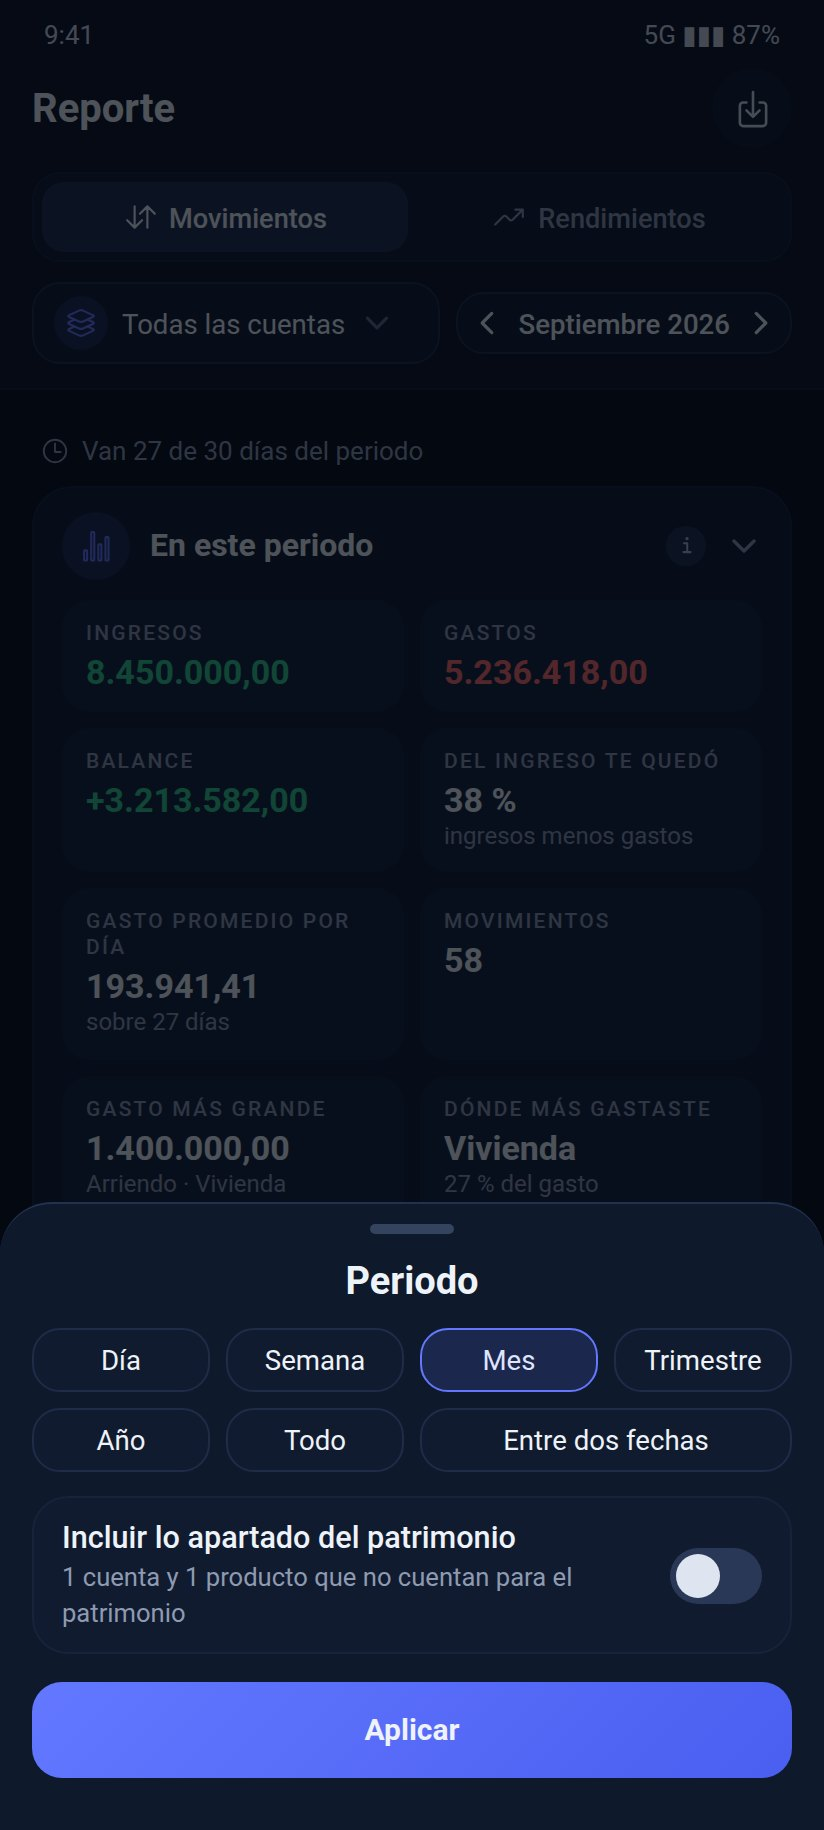
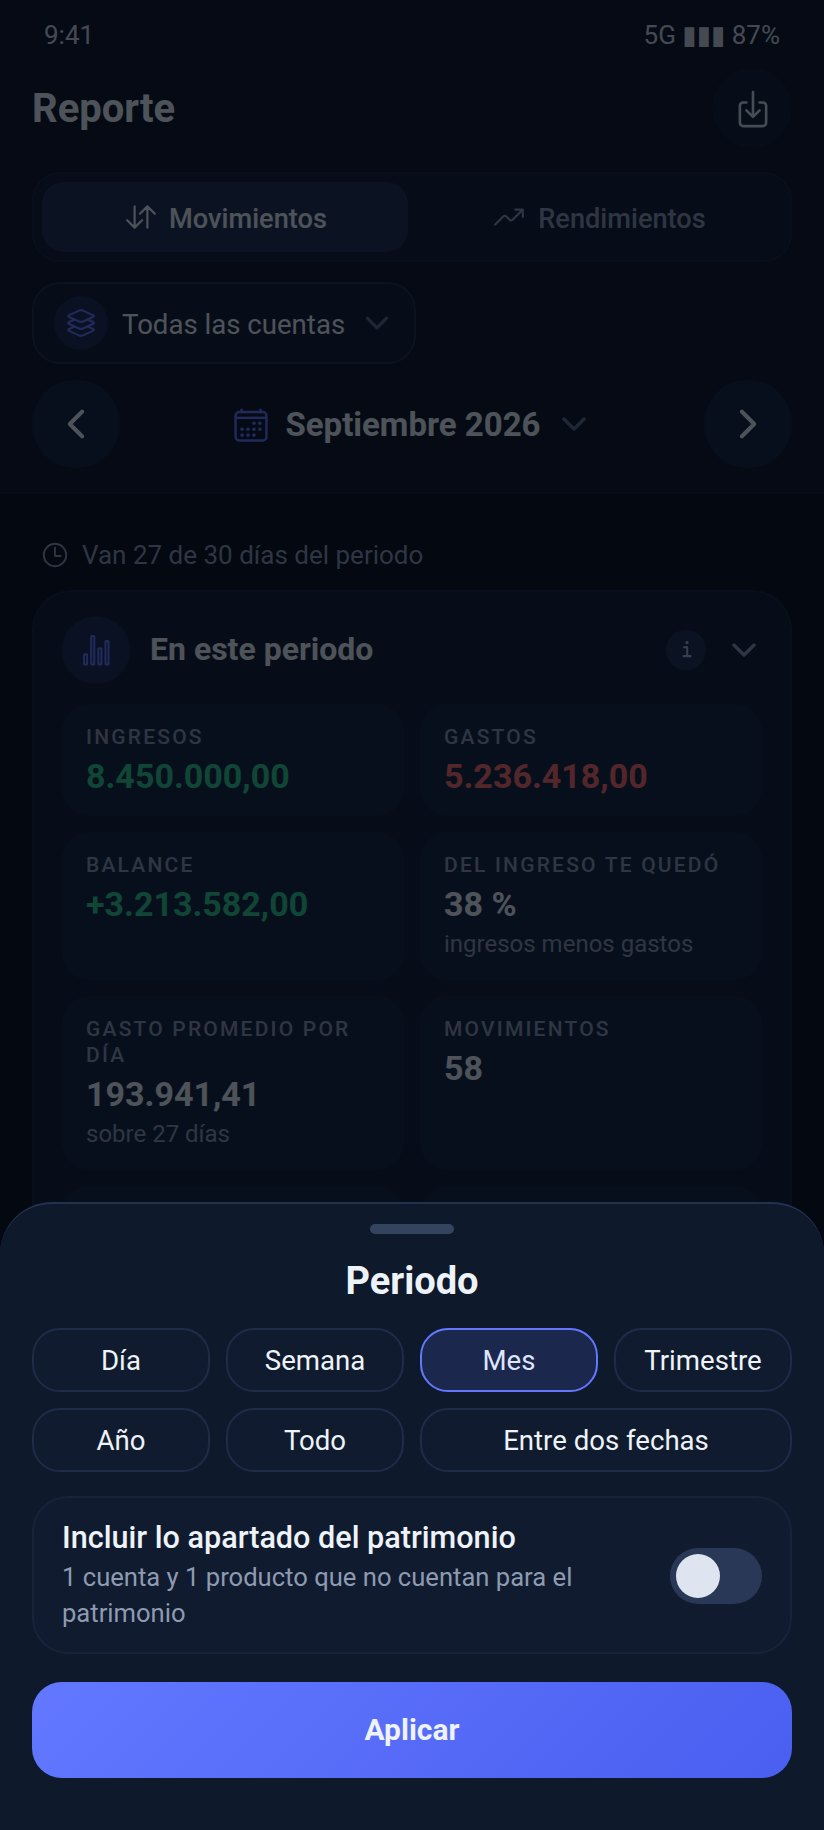
Redraw group 5 of the redesign after Jose's review
Explanations and section titles shown whole, the yields ranking in
order, the period on its own row with large arrows, and two ideas from
Lukas: income beside spending month by month, and the balance ahead.

Claude-Session: https://claude.ai/code/session_01QyUqFix1SMdsKVBtd1Wz88

diff --git a/CLAUDE.md b/CLAUDE.md
@@ -2053,7 +2053,7 @@ then does the next start. The groups and where each stands:
 | 2 | Cuentas, creating and editing an account, its icon and colour, currencies, net worth | `docs/mockups/2*` (v4) | **Approved** by Jose, 2026-09-28, with its three changes of access |
 | 3 | Categories and their editor | `docs/mockups/3*` (v4) | **Approved** by Jose, 2026-09-28 |
 | 4 | Products and yields: how they are reached, an account's products, days, movements, a product with its rates, a CDT | `docs/mockups/4*` (v5) | **Approved** by Jose, 2026-09-28 |
-| 5 | Report (money and yields) | `docs/mockups/5*` (v4) | Sent 2026-09-28, waiting |
+| 5 | Report (money and yields) | `docs/mockups/5*` (v5) | v4 reviewed by Jose; v5 sent 2026-09-28, waiting |
 | 6 | Por revisar, reading a statement | `d03`-`d05` (v3 draft) | To redo |
 | 7 | Avisos del banco | `d06`-`d07` (v3 draft) | To redo |
 | 8 | Más, Importar y exportar, Google (sign in, change account, sign out) | `d08`-`d13` (v3 draft) | To redo |
@@ -2278,6 +2278,33 @@ changes of ACCESS for Jose to accept or refuse:
 - "Van 27 de 30 días del periodo" stays on top when the period is not
   over. The drawing of each kind of block (figures, ranked with bars,
   comparison, trend with a tapped bar and its average, note) is today's.
+
+**And from his review of group 5 v4 (2026-09-28), v5 sent:**
+
+- **An explanation that belongs to a figure is shown whole**, wrapping
+  onto a second line, never cut with "…": the line under each figure
+  ("al año, por encima de la inflación"), the average balances of
+  "Contra el periodo anterior" (a line of their own under the change).
+  The marquee is for names; an explanation is read, not watched.
+- **A section's title is never cut**: closed, it is the title (wrapping
+  if it must) and, under it, its key figure in grey or its colour - the
+  one row shape of the Lukas study.
+- **"Qué cuenta rindió más" is ordered by what each earned, in pesos**
+  (a dollar account by its peso value), and says so.
+- **The period has its own row, with round 44px arrows at its edges**
+  and the month in the middle, which opens the period sheet; the account
+  is the row above. Taken from Lukas: the arrows were small and next to
+  the month, easy to miss.
+- **Two ideas from Lukas, drawn inside the report's own kinds of block
+  (proposed, not decided):** "Mes a mes" carries a selector, Gastos |
+  Ingresos y gastos, the second being income and spending side by side
+  per month (a trend with two series, as the spreadsheet already
+  draws); and a new section, **"Tu saldo a futuro"**, the balance of the
+  last months and, dashed, 90 days ahead at the average income and
+  spending of the last six months, saying it is a projection and never
+  writing a movement (rules 20 and 22; idea 7 of the table below).
+  Lukas's line chart of spending was left out: it is "Mes a mes" drawn
+  another way, and the rule is no second way to see the same thing.
 
 ### The ideas, by what they would take
 

diff --git a/docs/mockups/README.md b/docs/mockups/README.md
@@ -23,7 +23,7 @@ is redone, and superseded by Jose's review of 2026-09-28.
 | `3a`–`3j` | Group 3 (v4): Categorías closed and open, which list for a new one, editing (Para locked), a new one, the investment-return switch, the face's icon, colour and own image, the archived |
 | `4t01`–`4t13` | Group 4: every transfer with products, each end compact (account and product on two lines, two shapes) - the (i) help opened (`4t01b`), choosing on one side the product the other holds and the other side moving (`4t10a`, `4t10b`), long names and their slide (`4t12`, `4t13`), between two products of one account, choosing the product it leaves from, product to an account, account to a product, choosing the product it lands in, between two accounts with products, into a product set aside from net worth, into another currency, after "Invertir", the same product on both ends, editing one |
 | `4a`–`4zz` | Group 4 (v5): Rendimientos in the Cuentas tab, adding an account; an account's page with its selector (Productos, Movimientos, Pagos, Días), one day corrected or set to zero, stopping it; a product with its selector (Producto, Saldo said as a sum, Tasa, one using the account's rate, a new rate, Bonificación and a new one), deleting it and choosing where its balance goes; a CDT (CDT, Al vencer and choosing where it pays, Pagos); a new product's Saldo; a product's own income and expense with "¿Qué cambia?" as one row opening a sheet, and the note |
-| `5a`–`5p` | Group 5 (v4): the report. Movimientos: as it opens, each section open in turn (compared with before, what changed, where the money went, charges repeated each month, spending month by month), the (i) of a section, choosing the period, exporting. Rendimientos: the period in figures, against inflation, worth knowing, the balance against last month's close, yields so far with the estimated part, which account earned most, against the period before |
+| `5a`–`5r` | Group 5 (v5): the report. Movimientos: as it opens, each section open in turn (compared with before, what changed, where the money went, charges repeated each month, spending month by month), the (i) of a section, choosing the period, exporting. Rendimientos: the period in figures, against inflation, worth knowing, the balance against last month's close, yields so far with the estimated part, which account earned most, against the period before. From Lukas: income and spending month by month (`5q`) and the balance ahead (`5r`) |
 | `d03`–`d05` | Reading a statement, Por revisar (and choosing several) |
 | `d06`–`d07` | Avisos del banco, without and with permission |
 | `d08`–`d13` | Más, Importar y exportar, restoring, Google signed out and in (change account, sign out), replacing the Drive copy |
